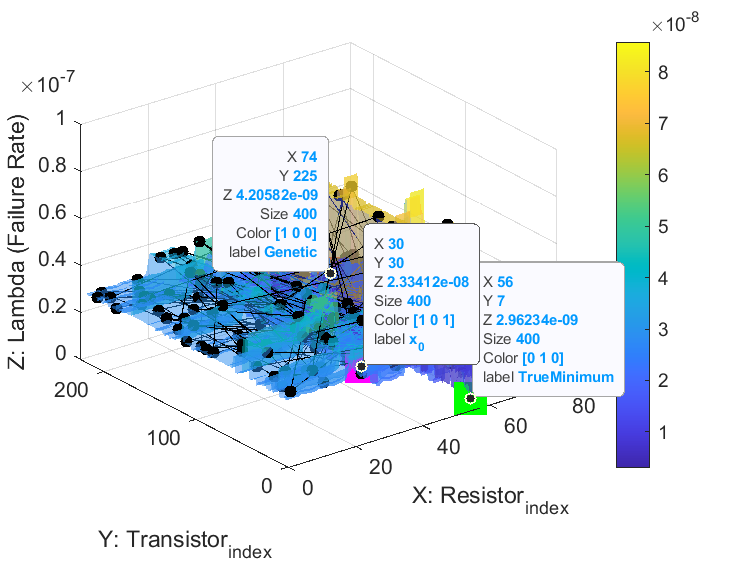
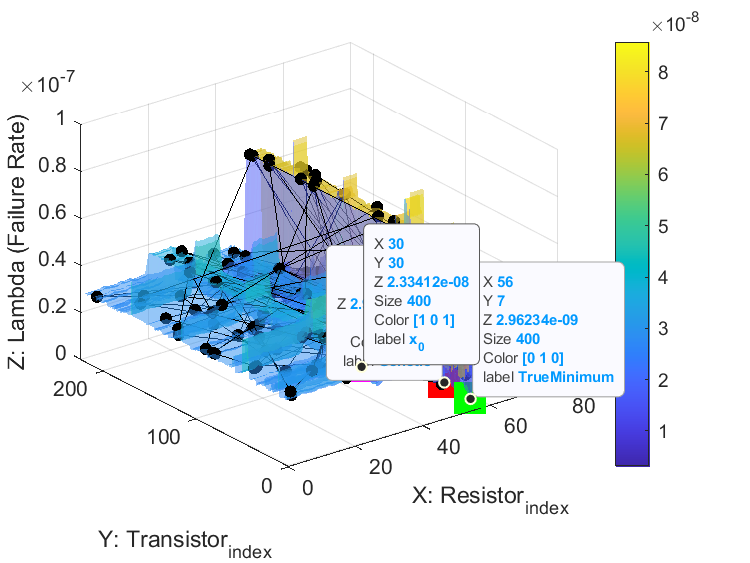
v.9.5.3. multi cont

diff --git a/TestMultiCont.m b/TestMultiCont.m
@@ -86,7 +86,7 @@ scatter(pareto_x,pareto_y,'black','<','filled','SizeData',40)
 grid
 xlabel('Y: R_{in} (Ω)');
 ylabel('X: Lambda (Failure Rate)');
-xlim([0 6]*1e7)
+xlim([0 1]*1e7)
 ylim([0 6]*1e-8)
 %% fminimax
 % [best_params,fval,tElapsed] = run_fminimaxContRC_multi(DataSystem, VarSystem, x0, lb, ub, numStarts) 
@@ -95,26 +95,50 @@ ylim([0 6]*1e-8)
 % [best_params,fval,tElapsed] = run_fgoalattainContRC_multi(DataSystem,goal,weight, VarSystem, x0, lb, ub, numStarts) 
 %% gamultiobj
 [best_params1,fval1,tElapsed1] = run_gamultiobjContRC_multi(DataSystem, VarSystem, lb, ub, numStarts);
-[fig1] = plotParetto(-fval1(:,1),fval1(:,2),"gamultiobj");
+fval1 = abs(fval1);
+[fig1] = plotParetto(fval1(:,1),fval1(:,2),"gamultiobj");
 
 %% paretosearch
 [best_params2,fval2,tElapsed2] = run_paretosearchContRC_multi(DataSystem, VarSystem, lb, ub, numStarts);
-[fig2] = plotParetto(-fval2(:,1),fval2(:,2),"paretosearch");
+fval2 = abs(fval2);
+[fig2] = plotParetto(fval2(:,1),fval2(:,2),"paretosearch");
+%%
+figure
+scatter(fval1(:,1),fval1(:,2),'red','filled','o','SizeData' ,200)
+grid
+legend("Pareto solve")
+title("gamultiobj")
+xlabel('X: R_{in} (Ω)');
+ylabel('Y: Lambda (Failure Rate)');
+xlim([0 1]*1e7)
+ylim([0 6]*1e-8)
+
+%%
+figure
+scatter(fval2(:,1),fval2(:,2),'blue','filled','o','SizeData',200)
+grid
+legend("Pareto solve")
+title("paretosearch")
+xlabel('X: R_{in} (Ω)');
+ylabel('Y: Lambda (Failure Rate)');
+xlim([0 1]*1e7)
+ylim([0 6]*1e-8)
 
 %%
 figure
 scatter(pareto_x,pareto_y,'black','<','filled','SizeData',40)
 hold on
-scatter(-fval1(:,1),fval1(:,2),'red','filled','o','SizeData' ,200)
-scatter(-fval2(:,1),fval2(:,2),'blue','filled','o','SizeData',200)
+scatter(fval1(:,1),fval1(:,2),'red','filled','o','SizeData' ,200)
+scatter(fval2(:,1),fval2(:,2),'blue','filled','o','SizeData',200)
 hold off
 grid
 legend("Thrue Paretto front","gamultiobj","paretosearch")
 title("Compare")
-ylabel('Y: R_{in} (Ω)');
-xlabel('X: Lambda (Failure Rate)');
-xlim([0 6]*1e7)
+xlabel('X: R_{in} (Ω)');
+ylabel('Y: Lambda (Failure Rate)');
+xlim([0 1]*1e7)
 ylim([0 6]*1e-8)
+
 %%
 function [fig] = plotParetto(fx,fy,name)
     fig = figure;

diff --git a/functions/run_paretosearchContRC_multi.m b/functions/run_paretosearchContRC_multi.m
@@ -5,7 +5,9 @@ fun = @(x) getFunctionSystemMultiCont(x, DataSystem, VarSystem);
 nlcon = @nonlcon;  
 
 % Настройки для gamultiobj
-options = optimoptions('paretosearch','Display','off','PlotFcn',{'psplotparetof' 'psplotparetox' 'psplotspread' 'psplotvolume' 'psplotfuncount' 'psplotdistance'});  
+options = optimoptions('paretosearch',...
+                        'Display','off',...
+                        'PlotFcn',{'psplotparetof' 'psplotparetox' 'psplotspread' 'psplotvolume' 'psplotfuncount' 'psplotdistance'});  
 
 tStart = tic;
 [best_params, fval] = paretosearch(fun, 2, [], [], [], [], lb, ub, nlcon, options); 

diff --git a/functions/getFunctionSystemMultiCont.m b/functions/getFunctionSystemMultiCont.m
@@ -5,8 +5,8 @@ function F = getFunctionSystemMultiCont(x, DataSystem, VarSystem)
     VarSystem.resistance_E = x(2);
     % x;
     
-    [f1,f2] = getReliabilityResInSystemFromData(DataSystem, VarSystem);  
+    [lambda, rin] = getReliabilityResInSystemFromData(DataSystem, VarSystem);  
 
-    F = [-f2, f1];  
+    F = [-rin, lambda];  
 
 end
